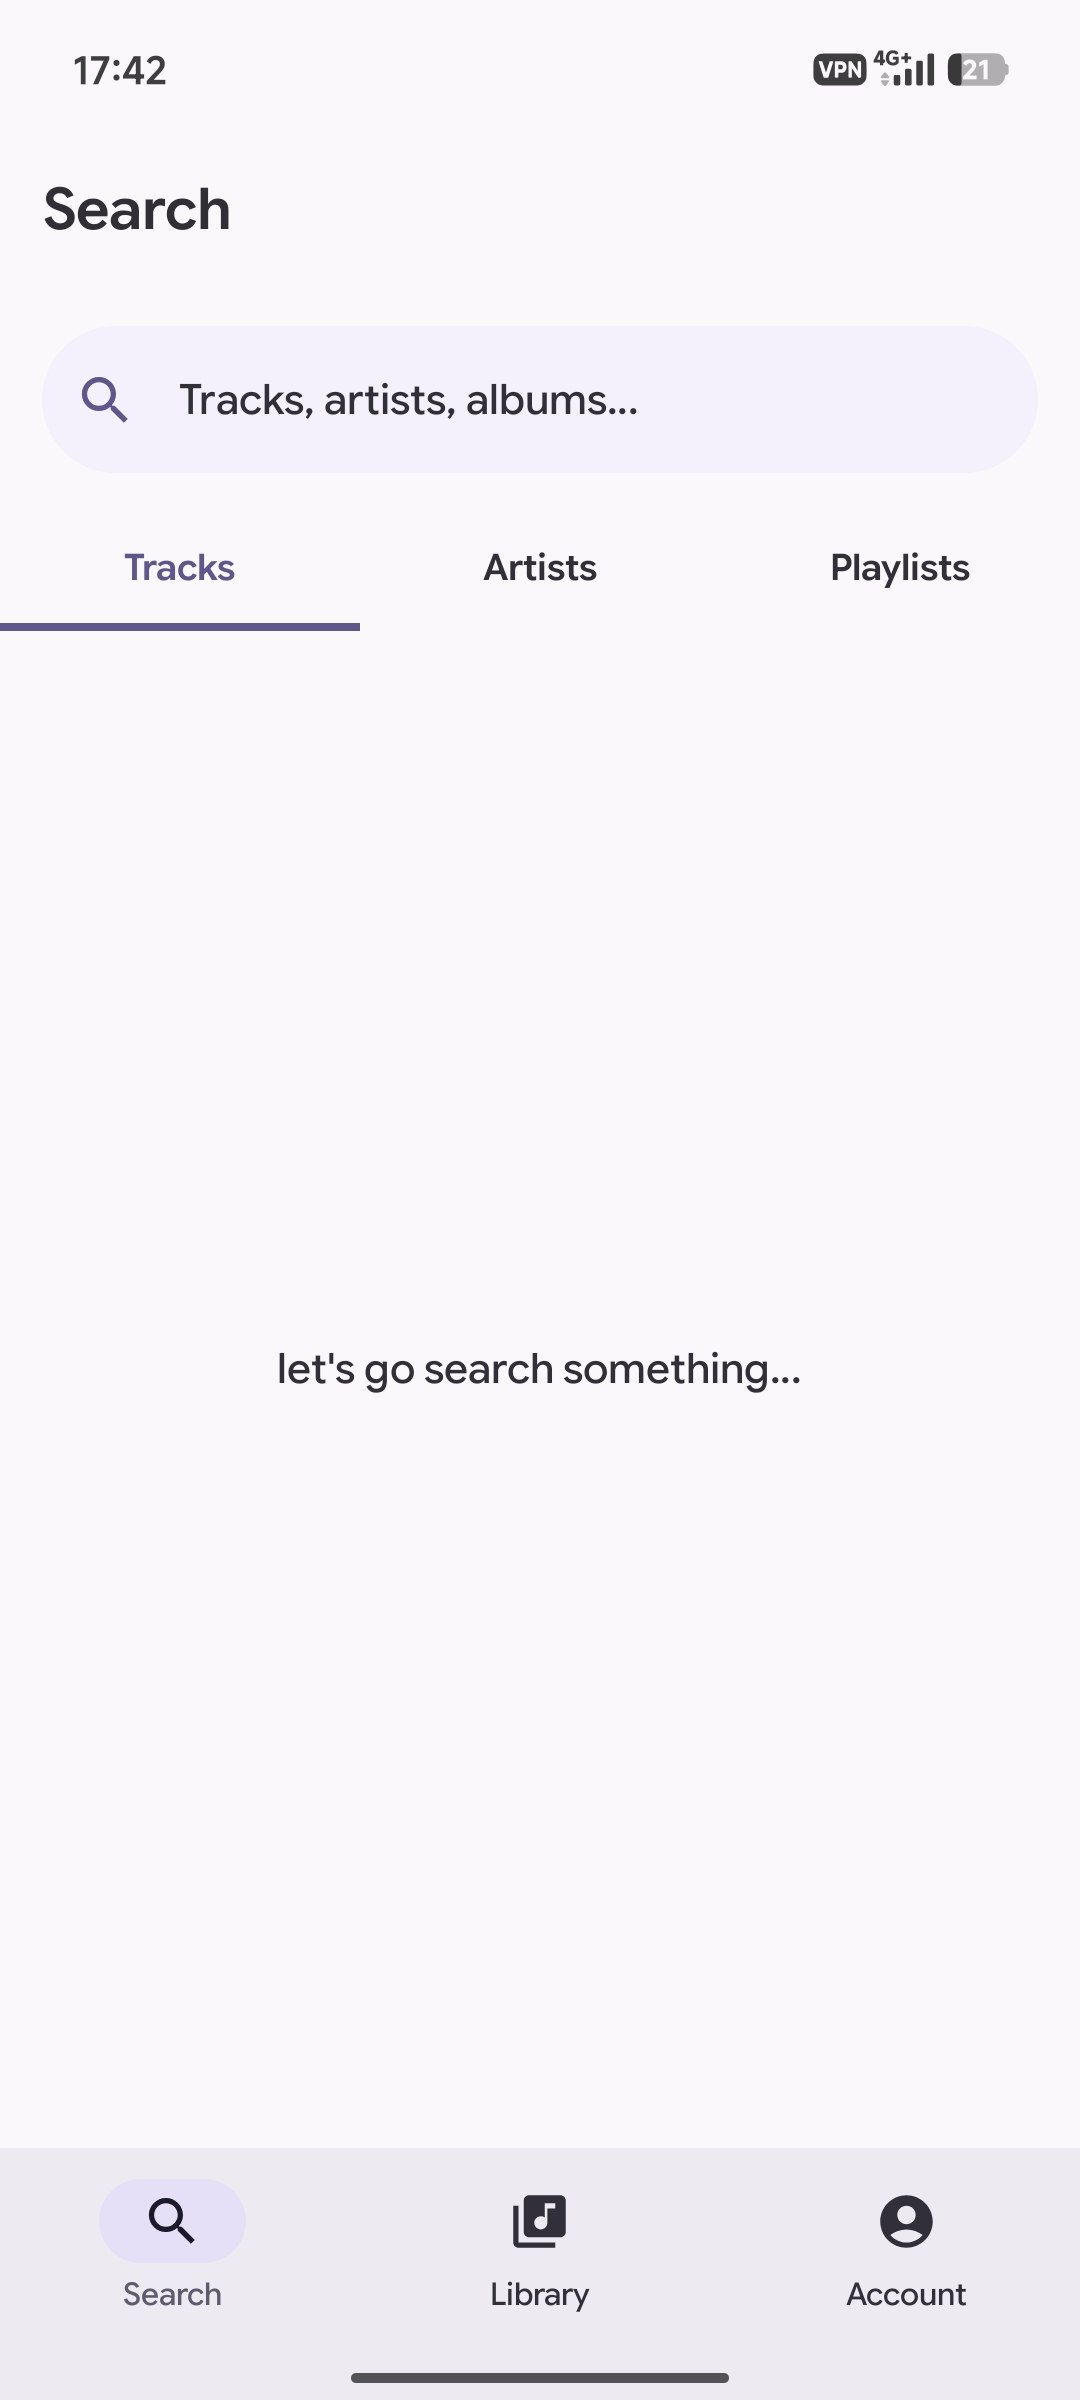
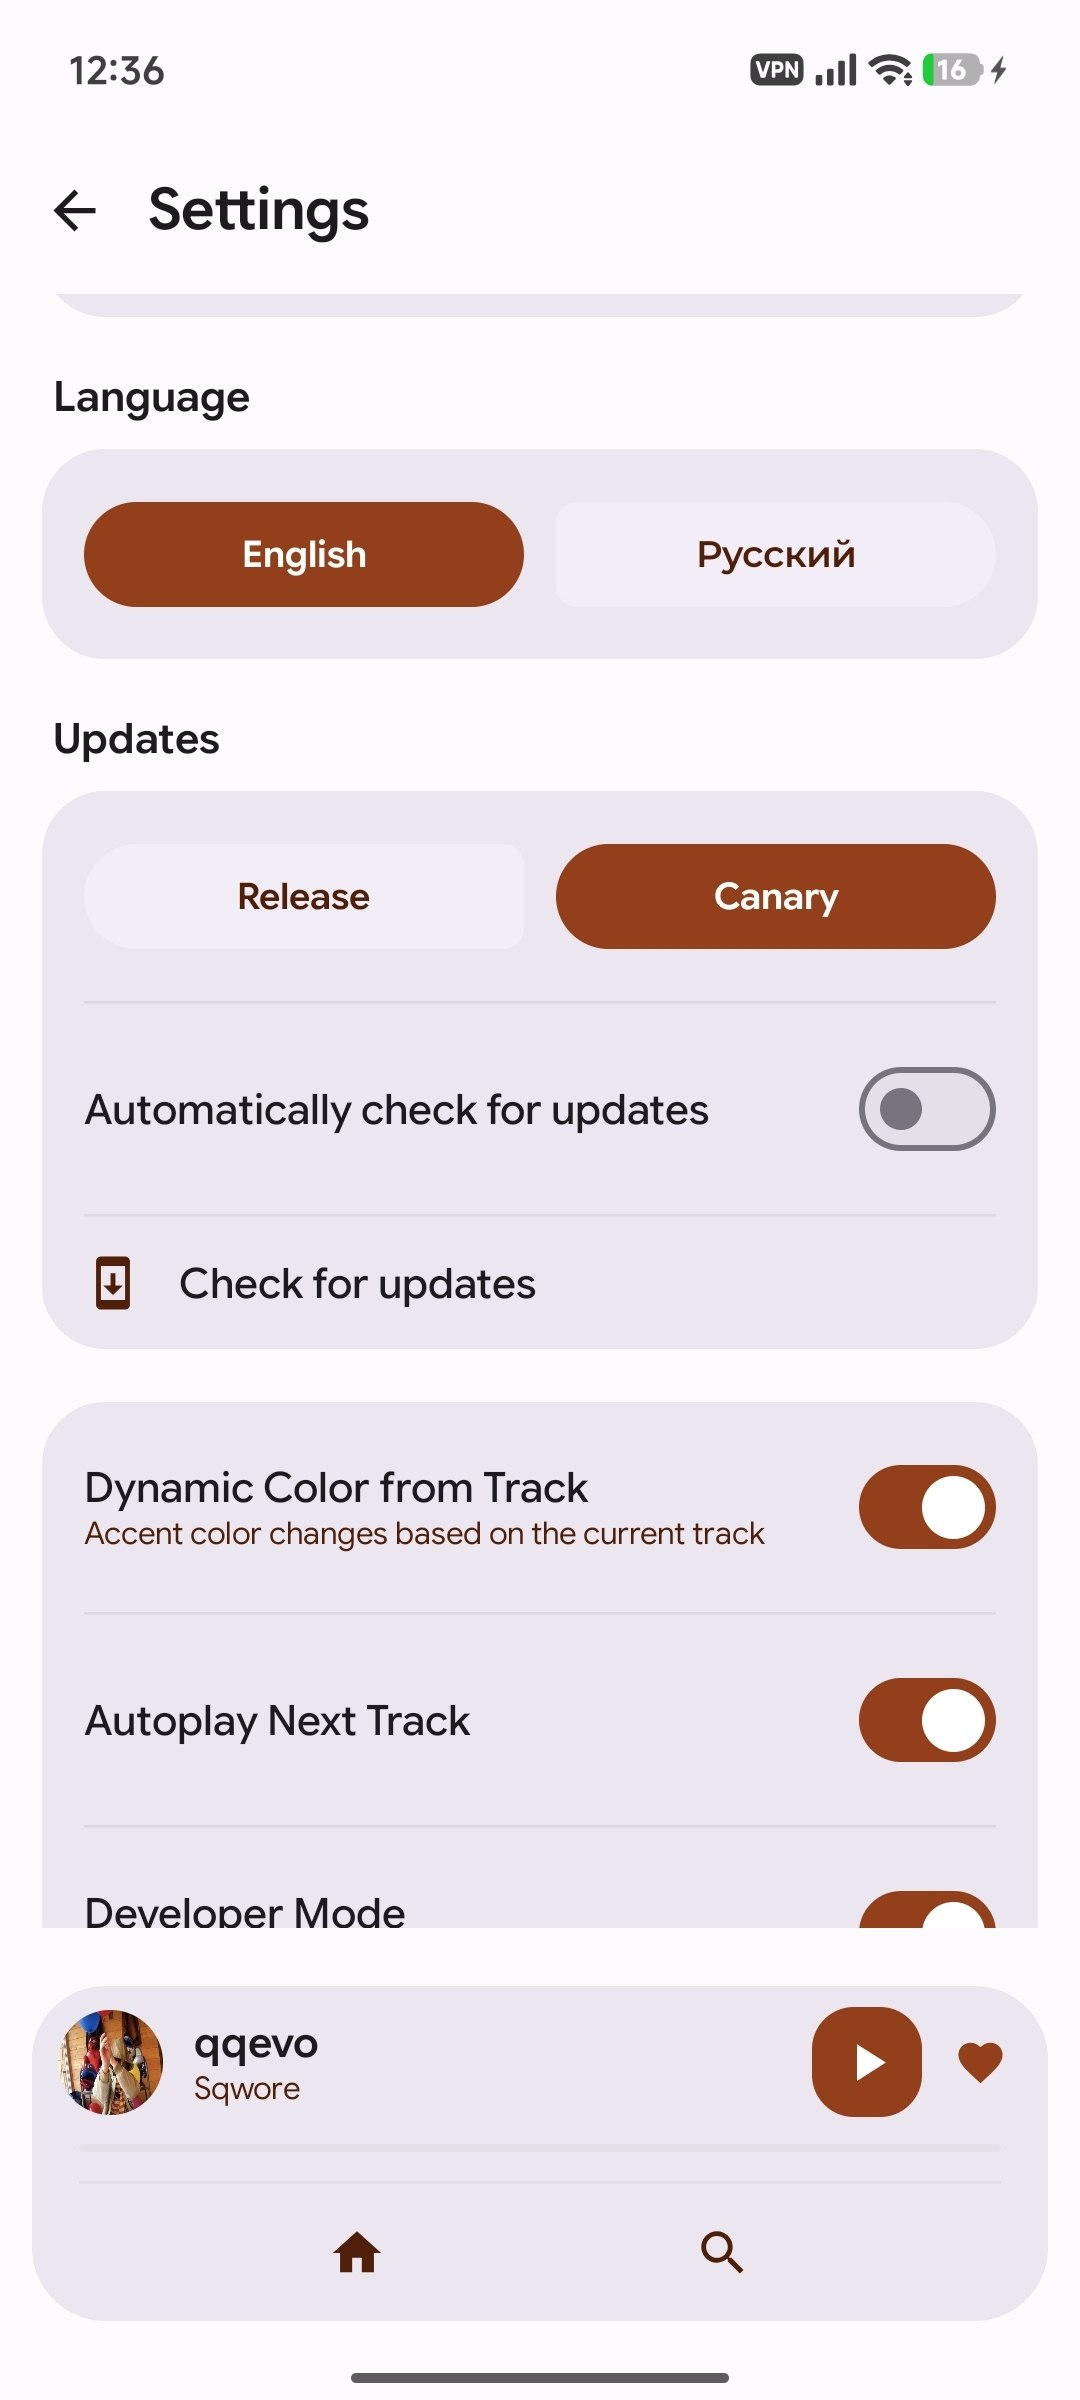
new screens

diff --git a/app/src/main/java/com/savoo/scclient/ui/screens/player/PlayerSheet.kt b/app/src/main/java/com/savoo/scclient/ui/screens/player/PlayerSheet.kt
@@ -90,6 +90,7 @@ import androidx.compose.ui.draw.clip
 import androidx.compose.ui.draw.scale
 import androidx.compose.ui.graphics.Brush
 import androidx.compose.ui.graphics.Color
+import androidx.compose.ui.graphics.luminance
 import androidx.compose.ui.graphics.Shape
 import androidx.compose.ui.graphics.Path
 import androidx.compose.ui.graphics.Outline
@@ -232,12 +233,13 @@ private fun FullPlayerSheet(
     onArtistClick: (Long) -> Unit = {},
 ) {
     val sheetState = rememberModalBottomSheetState(skipPartiallyExpanded = true)
+    val palette = rememberPlayerPalette()
 
     ModalBottomSheet(
         onDismissRequest = onDismiss,
         sheetState = sheetState,
         shape = RoundedCornerShape(topStart = 28.dp, topEnd = 28.dp),
-        containerColor = PlayerDarkBg,
+        containerColor = palette.bg,
         dragHandle = null,
     ) {
         FullPlayerContent(
@@ -271,6 +273,29 @@ private val PlayerDarkBg = Color(0xFF17181A)
 private val PlayerCardDim = Color(0xFF232420)
 private val PlayerOnDark = Color(0xFFF5F3E7)
 private val PlayerOnDarkMuted = Color(0xFFAFAEA2)
+
+// The main play button always sits on top of `accent`, which is itself blended heavily toward
+// white (see FullPlayerContent), so its content stays dark regardless of light/dark theme.
+private val PlayerAccentInk = Color(0xFF17181A)
+
+private data class PlayerPalette(val bg: Color, val card: Color, val on: Color, val onMuted: Color)
+
+// The big player uses a bespoke dark palette (not tied to the seed/dynamic color theme) for its
+// dark-mode look, but in light mode it should just match every other surface in the app - so the
+// light variant pulls straight from MaterialTheme instead of a second hand-picked palette.
+// `background`'s luminance mirrors the app's light/dark setting exactly (see Theme.kt's
+// buildDarkScheme/buildLightScheme/buildSeedScheme), so it's a reliable signal here without
+// threading the dark/light flag through every composable in this file.
+@Composable
+private fun rememberPlayerPalette(): PlayerPalette {
+    val scheme = MaterialTheme.colorScheme
+    val isLight = scheme.background.luminance() > 0.5f
+    return if (isLight) {
+        PlayerPalette(scheme.background, scheme.surfaceContainerHigh, scheme.onSurface, scheme.onSurfaceVariant)
+    } else {
+        PlayerPalette(PlayerDarkBg, PlayerCardDim, PlayerOnDark, PlayerOnDarkMuted)
+    }
+}
 
 private fun Color.tone(amount: Float, towards: Color): Color = lerp(this, towards, amount)
 
@@ -492,6 +517,7 @@ private fun FullPlayerContent(
     onArtistClick: (Long) -> Unit = {},
 ) {
     val context = LocalContext.current
+    val palette = rememberPlayerPalette()
     var showLyrics by rememberSaveable { mutableStateOf(false) }
     var isDragging by remember { mutableStateOf(false) }
     var dragPosition by remember { mutableFloatStateOf(0f) }
@@ -555,7 +581,7 @@ private fun FullPlayerContent(
                     Icons.Filled.KeyboardArrowDown,
                     contentDescription = stringResource(R.string.player_collapse),
                     modifier = Modifier.size(32.dp),
-                    tint = PlayerOnDark,
+                    tint = palette.on,
                 )
             }
             Row {
@@ -564,7 +590,7 @@ private fun FullPlayerContent(
                         Icons.Filled.Lyrics,
                         contentDescription = stringResource(R.string.player_lyrics),
                         modifier = Modifier.size(24.dp),
-                        tint = if (showLyrics) accent else PlayerOnDark,
+                        tint = if (showLyrics) accent else palette.on,
                     )
                 }
                 IconButton(onClick = {
@@ -580,7 +606,7 @@ private fun FullPlayerContent(
                         Icons.Filled.Share,
                         contentDescription = stringResource(R.string.player_share),
                         modifier = Modifier.size(24.dp),
-                        tint = PlayerOnDark,
+                        tint = palette.on,
                     )
                 }
             }
@@ -625,7 +651,7 @@ private fun FullPlayerContent(
                         Text(
                             text = stringResource(R.string.player_playing_from, playingFromSource(state.queueTag, track.user.username)),
                             style = MaterialTheme.typography.labelMedium,
-                            color = PlayerOnDarkMuted,
+                            color = palette.onMuted,
                             maxLines = 1,
                             overflow = TextOverflow.Ellipsis,
                             textAlign = TextAlign.Center,
@@ -653,12 +679,12 @@ private fun FullPlayerContent(
                                     maxLines = 2,
                                     overflow = TextOverflow.Ellipsis,
                                     textAlign = TextAlign.Center,
-                                    color = PlayerOnDark,
+                                    color = palette.on,
                                 )
                                 Text(
                                     track.user.username,
                                     style = MaterialTheme.typography.titleMedium,
-                                    color = PlayerOnDarkMuted,
+                                    color = palette.onMuted,
                                     maxLines = 1,
                                     overflow = TextOverflow.Ellipsis,
                                     modifier = Modifier
@@ -679,7 +705,7 @@ private fun FullPlayerContent(
                             Icon(
                                 if (isFavorite) Icons.Filled.Favorite else Icons.Filled.FavoriteBorder,
                                 contentDescription = null,
-                                tint = if (isFavorite) accent else PlayerOnDarkMuted,
+                                tint = if (isFavorite) accent else palette.onMuted,
                                 modifier = Modifier.scale(heartScale),
                             )
                         }
@@ -704,7 +730,7 @@ private fun FullPlayerContent(
                                 Icon(
                                     Icons.Filled.CloudDownload,
                                     contentDescription = stringResource(R.string.player_save_offline),
-                                    tint = PlayerOnDarkMuted,
+                                    tint = palette.onMuted,
                                     modifier = Modifier.size(22.dp),
                                 )
                             }
@@ -724,7 +750,7 @@ private fun FullPlayerContent(
                 colors = SliderDefaults.colors(
                     thumbColor = accent,
                     activeTrackColor = accent,
-                    inactiveTrackColor = PlayerOnDarkMuted.copy(alpha = 0.25f),
+                    inactiveTrackColor = palette.onMuted.copy(alpha = 0.25f),
                 ),
             )
             Row(
@@ -734,12 +760,12 @@ private fun FullPlayerContent(
                 Text(
                     formatTime(if (isDragging) dragPosition.toLong() else state.positionMs),
                     style = MaterialTheme.typography.bodySmall,
-                    color = PlayerOnDarkMuted,
+                    color = palette.onMuted,
                 )
                 Text(
                     formatTime(state.durationMs),
                     style = MaterialTheme.typography.bodySmall,
-                    color = PlayerOnDarkMuted,
+                    color = palette.onMuted,
                 )
             }
 
@@ -753,13 +779,13 @@ private fun FullPlayerContent(
                     .graphicsLayer { scaleX = playScale; scaleY = playScale },
                 shape = RoundedCornerShape(50),
                 color = accent,
-                contentColor = PlayerDarkBg,
+                contentColor = PlayerAccentInk,
             ) {
                 Box(contentAlignment = Alignment.Center) {
                     if (state.isBuffering || state.loadingTrackId != null) {
                         LoadingIndicator(
                             modifier = Modifier.size(28.dp),
-                            color = PlayerDarkBg,
+                            color = PlayerAccentInk,
                         )
                     } else {
                         Icon(
@@ -782,25 +808,25 @@ private fun FullPlayerContent(
                     icon = Icons.Filled.Shuffle,
                     contentDescription = stringResource(R.string.player_shuffle),
                     onClick = onToggleShuffle,
-                    tint = if (state.shuffleEnabled) accent else PlayerOnDarkMuted,
+                    tint = if (state.shuffleEnabled) accent else palette.onMuted,
                 )
                 PlayerCircleIconButton(
                     icon = Icons.Filled.SkipPrevious,
                     contentDescription = null,
                     onClick = onPrev,
-                    tint = PlayerOnDark,
+                    tint = palette.on,
                 )
                 PlayerCircleIconButton(
                     icon = Icons.Filled.SkipNext,
                     contentDescription = null,
                     onClick = onNext,
-                    tint = PlayerOnDark,
+                    tint = palette.on,
                 )
                 PlayerCircleIconButton(
                     icon = if (state.repeatMode == Player.REPEAT_MODE_ONE) Icons.Filled.RepeatOne else Icons.Filled.Repeat,
                     contentDescription = stringResource(R.string.player_repeat),
                     onClick = onCycleRepeat,
-                    tint = if (state.repeatMode != Player.REPEAT_MODE_OFF) accent else PlayerOnDarkMuted,
+                    tint = if (state.repeatMode != Player.REPEAT_MODE_OFF) accent else palette.onMuted,
                 )
             }
         }
@@ -817,10 +843,11 @@ private fun PlayerCircleIconButton(
     size: Dp = 52.dp,
     iconSize: Dp = 24.dp,
 ) {
+    val palette = rememberPlayerPalette()
     IconButton(
         onClick = onClick,
         modifier = modifier.size(size),
-        colors = IconButtonDefaults.iconButtonColors(containerColor = PlayerCardDim, contentColor = tint),
+        colors = IconButtonDefaults.iconButtonColors(containerColor = palette.card, contentColor = tint),
     ) {
         Icon(icon, contentDescription = contentDescription, modifier = Modifier.size(iconSize))
     }
@@ -972,13 +999,14 @@ private fun LyricsView(
     accent: Color,
     modifier: Modifier = Modifier,
 ) {
+    val palette = rememberPlayerPalette()
     Box(modifier = modifier, contentAlignment = Alignment.Center) {
         when {
             lines == null -> LoadingIndicator(color = accent)
             lines.isEmpty() -> Text(
                 stringResource(R.string.player_lyrics_not_found),
                 style = MaterialTheme.typography.bodyMedium,
-                color = PlayerOnDarkMuted,
+                color = palette.onMuted,
                 textAlign = TextAlign.Center,
                 modifier = Modifier.padding(horizontal = 32.dp),
             )
@@ -1047,9 +1075,10 @@ private fun LyricsOffsetControl(
     onAdjustOffset: (Long) -> Unit,
     modifier: Modifier = Modifier,
 ) {
+    val palette = rememberPlayerPalette()
     Surface(
-        color = PlayerCardDim.copy(alpha = 0.9f),
-        contentColor = PlayerOnDarkMuted,
+        color = palette.card.copy(alpha = 0.9f),
+        contentColor = palette.onMuted,
         shape = RoundedCornerShape(50),
         modifier = modifier,
     ) {
@@ -1063,7 +1092,7 @@ private fun LyricsOffsetControl(
             Text(
                 text = "%+.1fs".format(offsetMs / 1000f),
                 style = MaterialTheme.typography.labelMedium,
-                color = PlayerOnDarkMuted,
+                color = palette.onMuted,
                 modifier = Modifier
                     .padding(horizontal = 4.dp)
                     .clickable(
@@ -1086,6 +1115,7 @@ private fun LyricsLineItem(
     isPast: Boolean,
     onClick: () -> Unit,
 ) {
+    val palette = rememberPlayerPalette()
     val scale by animateFloatAsState(
         targetValue = if (isActive) 1f else 0.92f,
         animationSpec = spring(dampingRatio = Spring.DampingRatioMediumBouncy, stiffness = Spring.StiffnessMediumLow),
@@ -1093,9 +1123,9 @@ private fun LyricsLineItem(
     )
     val color by animateColorAsState(
         targetValue = when {
-            isActive -> PlayerOnDark
-            isPast -> PlayerOnDarkMuted.copy(alpha = 0.35f)
-            else -> PlayerOnDarkMuted.copy(alpha = 0.6f)
+            isActive -> palette.on
+            isPast -> palette.onMuted.copy(alpha = 0.35f)
+            else -> palette.onMuted.copy(alpha = 0.6f)
         },
         animationSpec = tween(500, easing = FastOutSlowInEasing),
         label = "lyricColor",
